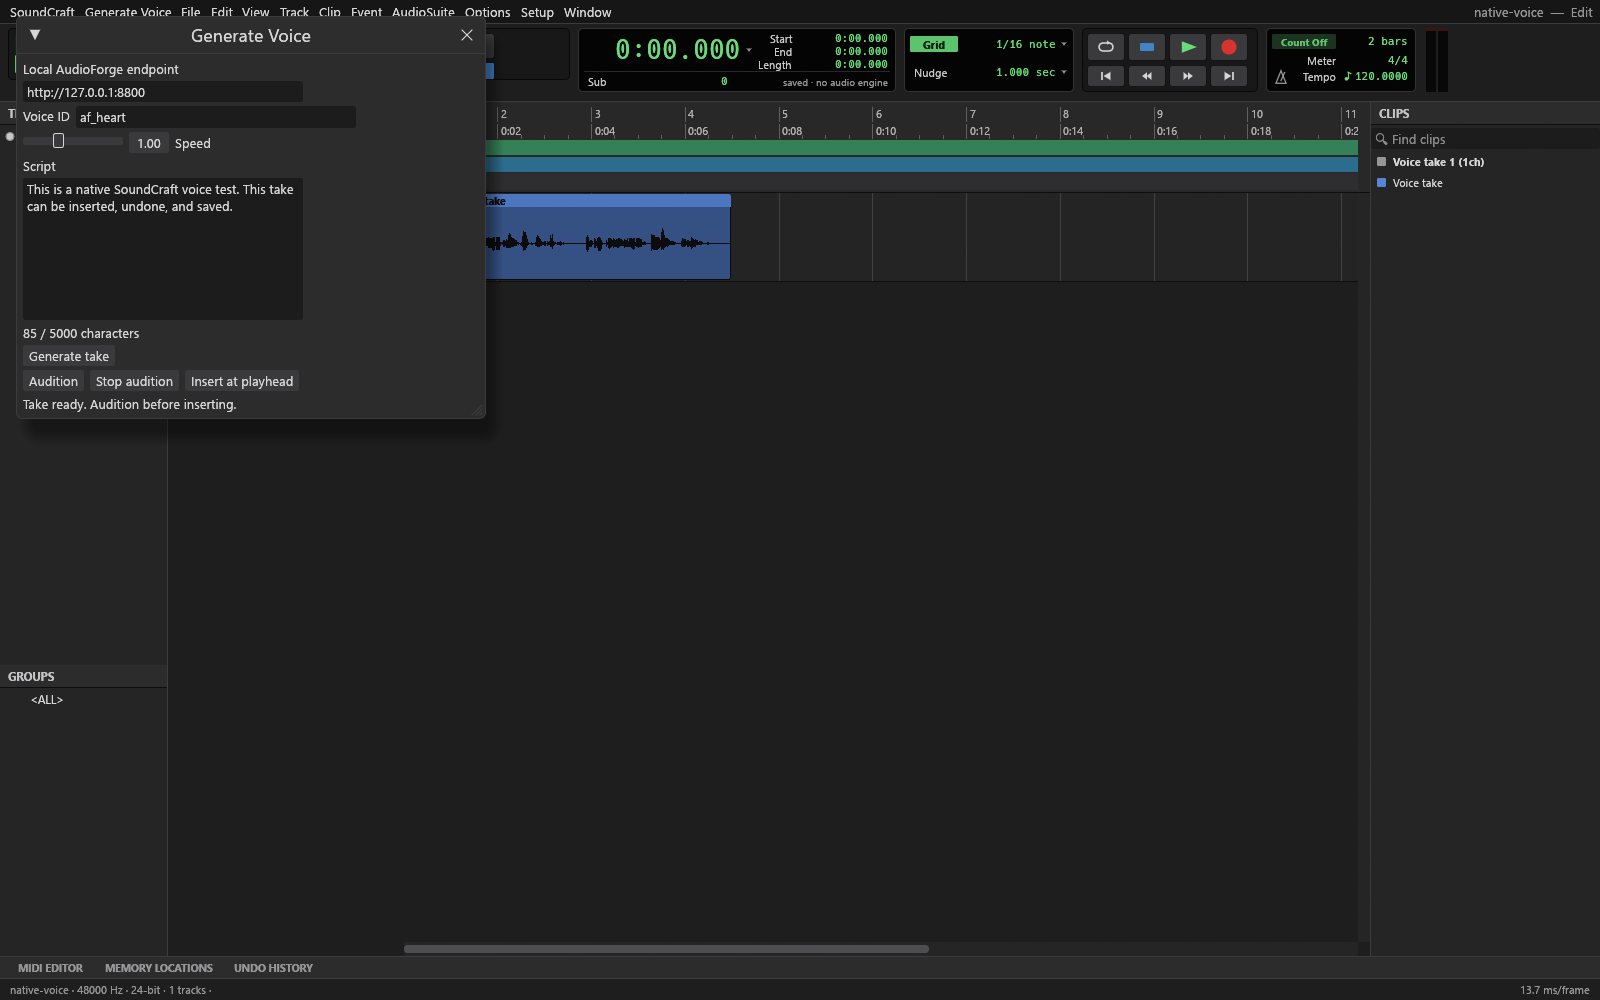
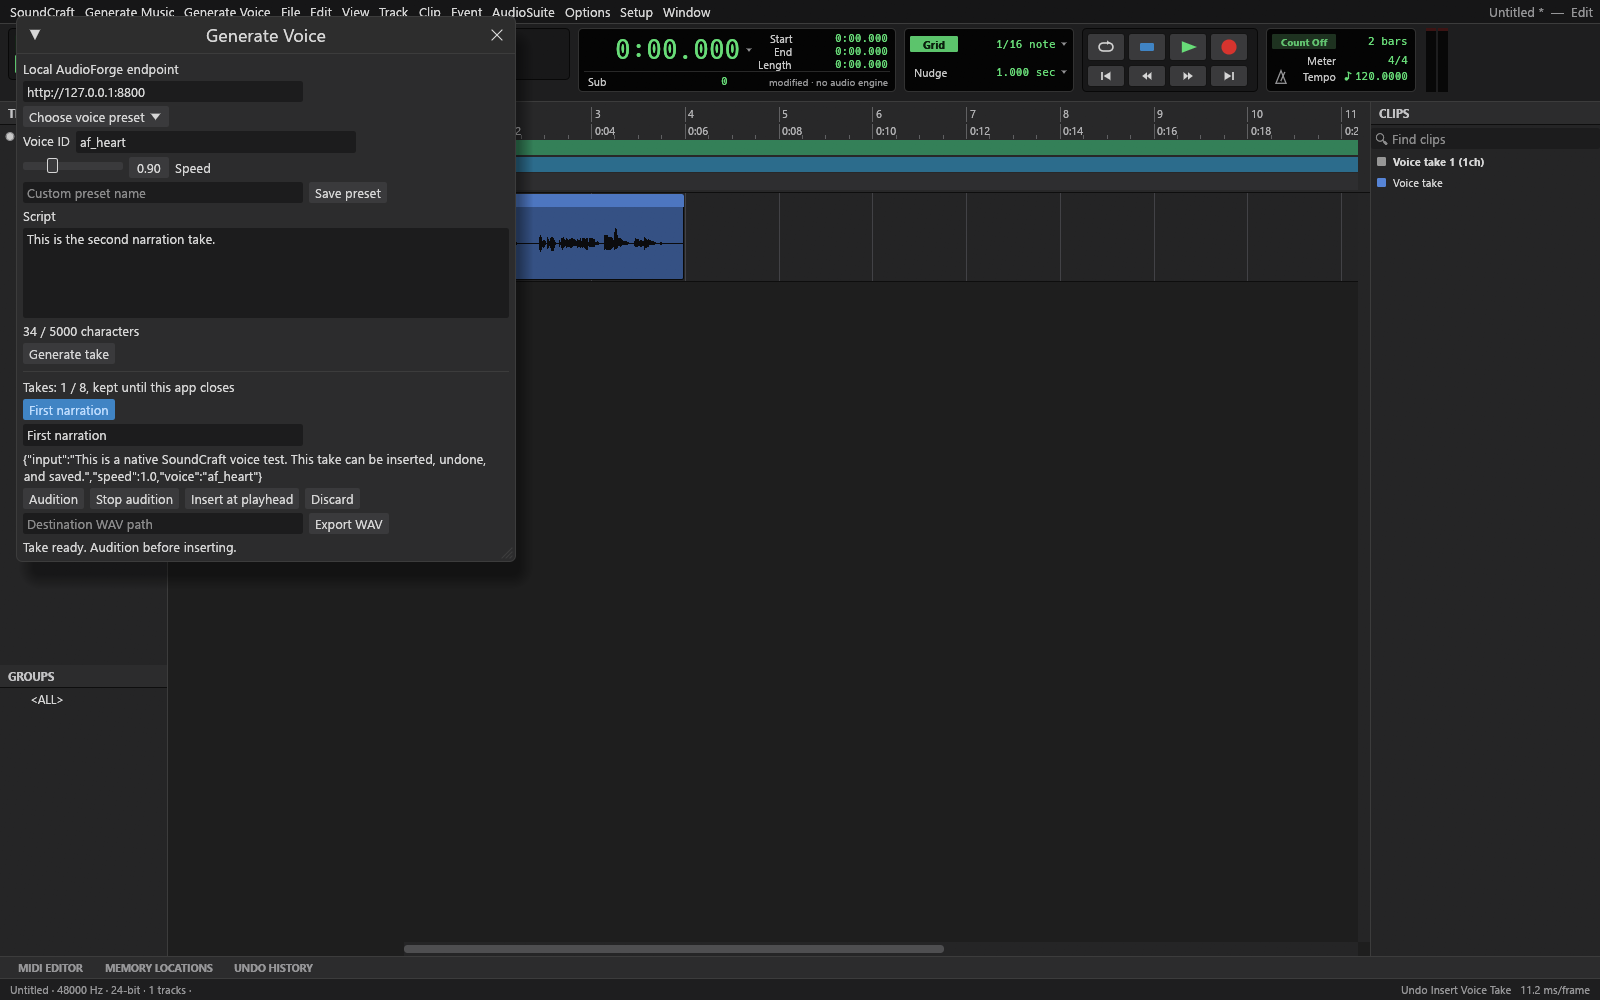
Document verified music, singing, genres, and take workflows

diff --git a/README.md b/README.md
@@ -1,19 +1,23 @@
-# Cardona Pipeline Tools: SoundCraft voice preview
+# Cardona Pipeline Tools: SoundCraft audio preview
 
-Development fork of [SoundCraft](https://github.com/storytold/soundcraft) by the ArtCraft team. This preview adds local AudioForge text-to-speech generation to the native Rust audio editor. It is an independent modified version.
+Independent development fork of [SoundCraft](https://github.com/storytold/soundcraft) by the ArtCraft team, with local AudioForge speech and ACE-Step music generation.
 
 ## Generate Voice
 
-Enter a script and voice ID, generate a WAV take through a local AudioForge-compatible service, audition it, then insert it at the playhead. Insertions use the normal undo boundary. Source text, voice and speed are saved with the audio source.
+Enter a script, choose a voice preset or save your own, and generate a WAV take. Keep up to eight takes, compare their original settings, rename, audition, export, or insert at the playhead. Insertions are undoable. Saved sessions retain source text, voice, speed, and audio.
 
-See [setup and current limits](docs/integrations/audioforge.md). The small Python bridge uses only the standard library. The TTS model runs outside SoundCraft's realtime audio engine. No model is automatically downloaded or started.
+## Generate Music
+
+Choose an editable genre preset, set duration, tempo and seed, and generate an instrumental. Enable Sung vocals and enter original English lyrics for a mixed song. Spoken TTS vocals can be arranged on a separate track. Source metadata retains prompt, genre, model configuration, lyrics, and generation settings.
+
+See [setup, screenshots, verification, and limits](docs/integrations/audioforge.md). Both Python bridges use only the standard library. Models run in separate local services; the app does not download or start them automatically.
 
 ## Development
 
-The upstream Rust workspace and command architecture remain intact. Run `cargo xtask ci` for repository checks. The AudioForge preview workflow builds and checks the Windows version. Native verification is in progress; this is not a production release.
+The Windows preview build and complete repository gates passed at a1982fb. Native tests passed presets, take management, real speech/music/singing generation, undo, save/reopen, metadata persistence, and mix export. This remains a development preview. Native speaker audition playback and independent vocal stems remain unverified or unimplemented.
 
-The next preview adds voice presets, take selection/rename/export/discard, and a local ACE-Step adapter with genre presets and optional sung vocals. Its build and native verification are in progress. Sentence-level regeneration remains planned.
+Run `cargo xtask ci` for repository checks and `python -m unittest discover -s integrations/audioforge -v` for bridge tests. The local music adapter follows the [official ACE-Step API](https://ace-step.github.io/ACE-Step-1.5/en/API).
 
 ## Attribution and licenses
 
-Based on SoundCraft by the ArtCraft team and its contributors. Code remains licensed under MIT or Apache-2.0. See LICENSE-MIT, LICENSE-APACHE, NOTICE and ATTRIBUTION.md for the applicable notices. ArtCraft trademark artwork has been removed from this modified fork; its license text is retained in docs/brand/LICENSE-brand.txt.
+Based on SoundCraft by the ArtCraft team and its contributors. Code remains MIT or Apache-2.0. See LICENSE-MIT, LICENSE-APACHE, NOTICE and ATTRIBUTION.md. ArtCraft trademark artwork was removed from this modified fork; its license text is retained in docs/brand/LICENSE-brand.txt. ACE-Step is a separately installed MIT-licensed engine.

diff --git a/docs/integrations/audioforge.md b/docs/integrations/audioforge.md
@@ -26,13 +26,17 @@ Native desktop only. The next preview includes three original voice-setting pres
 
 ## Verification
 
-Windows CI passed the native app build and complete `cargo xtask ci` gates, including formatting, strict workspace Clippy, workspace tests, asset and layer checks, and WASM checks. Three bridge tests and three engine regression tests cover input rejection, speech requests, insertion, undo, metadata round trips, and separate saved takes.
+The Windows build at a1982fb passed the native app build and complete `cargo xtask ci` gates: formatting, strict workspace Clippy, workspace tests, assets, architecture layers, and WASM. Six Python tests cover speech and asynchronous music contracts, invalid inputs, failure states, timeouts, cross-origin rejection, WAV conversion, malformed samples, and no-overwrite exports. Four engine regression tests cover voice and music insertion, undo, metadata round trips, and distinct saved take files.
 
-The real local Kokoro endpoint produced an 8.45-second mono WAV at 24 kHz through the bridge. The official v0.3.0 CLI also passed import, save/reopen, and bounce checks. The built Windows preview passed real TTS through its native control channel, insertion, undo, metadata save, reopen, mix export, and screenshot capture. The screenshot was visually checked. Jason listened to the emailed Kokoro sample and approved its sound on 2026-10-08. Native audition playback has not yet been separately verified.
+The native Windows smoke test passed voice preset application, custom preset save and reload, two takes with immutable settings, selection and rename, export without overwrite, discard, real music and singing generation, genre and lyric persistence, undo, save/reopen, and mix export. All three panels were captured and visually checked. Five local music demos were emailed, including original sung acoustic pop and a requested female alternative post-hardcore demo. Jason approved the Kokoro voice sample and the shoutcore demo by listening. Native speaker audition playback has not been separately verified.
 
-![Generate Voice panel with an inserted take](../images/audioforge-voice.png)
+![Voice presets and takes](../images/audioforge-voice.png)
 
-## Instrumental music preview
+![Music genres and instrumental take](../images/audioforge-music.png)
+
+![Sung vocals and lyrics](../images/audioforge-singing.png)
+
+## Music and singing preview
 
 The music panel targets the official ACE-Step 1.5 local API at http://127.0.0.1:8001. Set SOUNDCRAFT_MUSIC_BRIDGE to the absolute path of integrations/audioforge/music_bridge.py, and optionally SOUNDCRAFT_MUSIC_ENDPOINT. The Python executable setting is shared with the voice bridge. Install and start ACE-Step separately using its [official setup](https://github.com/ACE-Step/ACE-Step-1.5).
 

diff --git a/ROADMAP.md b/ROADMAP.md
@@ -4,11 +4,13 @@ SoundCraft is a clean-room, pure-Rust digital audio workstation that aims at ful
 Avid Pro Tools, and then beyond it: faster, open, scriptable and agent-controllable. This file is
 the honest status: what works today, what is missing, and how far we are.
 
-## Cardona Pipeline Tools voice preview (2026-10-08)
+## Cardona Pipeline Tools audio preview (2026-10-08)
 
-The independent fork now includes local AudioForge/Kokoro speech generation, audition controls, undoable insertion, and saved generation metadata. The Windows build and full repository gates pass. A native smoke test passed real speech generation, insertion, undo, save/reopen, and mix export. See [setup and screenshot](docs/integrations/audioforge.md).
+Completed: local AudioForge/Kokoro speech generation, original and saved custom voice presets, eight-take management, local ACE-Step instrumental and sung-vocal generation, editable genre presets, undoable insertion, and saved generation metadata including lyrics. The Windows build and full repository gates pass. Native tests passed presets, selection/rename/export/discard, real generation, undo, save/reopen, and mix export. Screenshots and setup are in [the integration guide](docs/integrations/audioforge.md).
 
-Next: voice presets and take management, then an independently configured music-generation adapter. Listening validation remains open.
+Listening checks: Jason approved the emailed Kokoro sample and female alternative post-hardcore demo. Native speaker audition playback still needs a separate check.
+
+Next: controlled melodic/aggressive variations, independent vocal/instrument stems, lyric alignment, and speech ducking. Generated songs currently import as a mixed take.
 
 ## Where we are (2026-10-07)
 

diff --git a/ATTRIBUTION.md b/ATTRIBUTION.md
@@ -46,3 +46,9 @@ and, at runtime, the operating system's own UI fonts when available (never redis
 | `docs/images/` | SoundCraft contributors | screenshots of SoundCraft rendered from the synthesised demo session | MIT OR Apache-2.0 |
 
 The screenshot docs/images/audioforge-voice.png shows the Cardona Pipeline Tools fork UI with a generated local test take. Screenshot by Jason Cardona, distributed under the repository's MIT/Apache-2.0 terms.
+
+| Path | Author | Source | License |
+|---|---|---|---|
+| `docs/images/audioforge-voice.png` | Jason Cardona | Screenshot of this fork with an original local test script | MIT OR Apache-2.0 |
+| `docs/images/audioforge-music.png` | Jason Cardona | Screenshot of this fork with original generated test audio | MIT OR Apache-2.0 |
+| `docs/images/audioforge-singing.png` | Jason Cardona | Screenshot of this fork with original lyrics and generated test audio | MIT OR Apache-2.0 |
